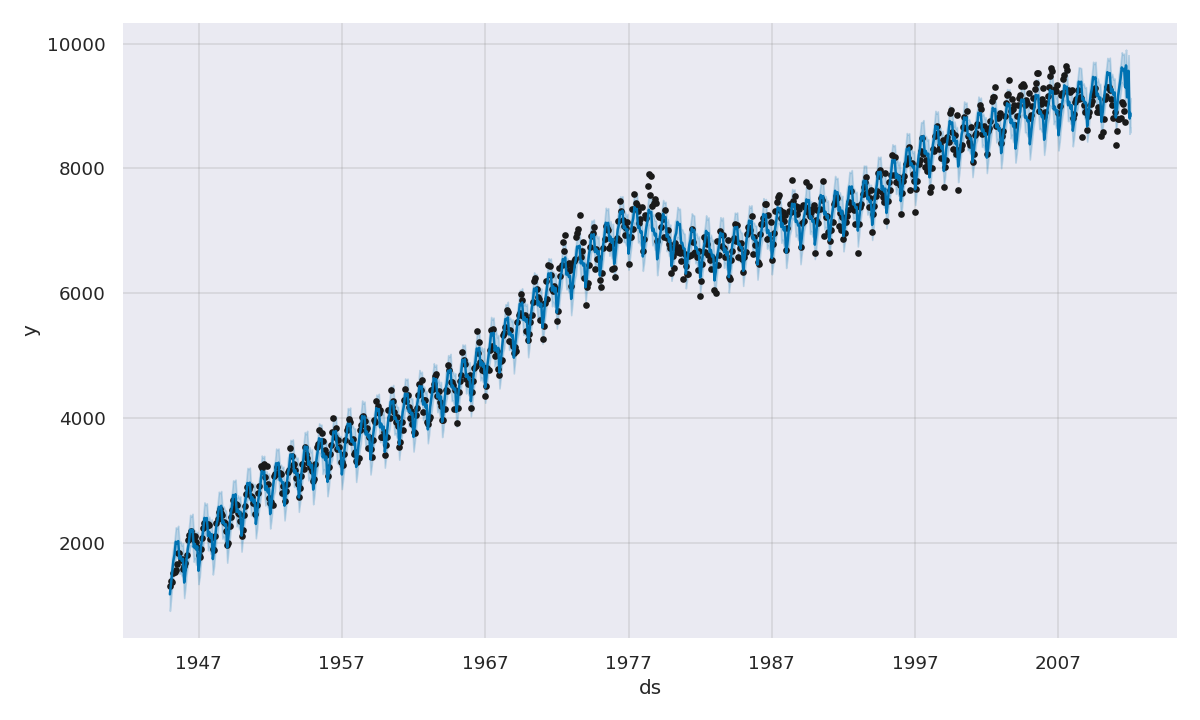
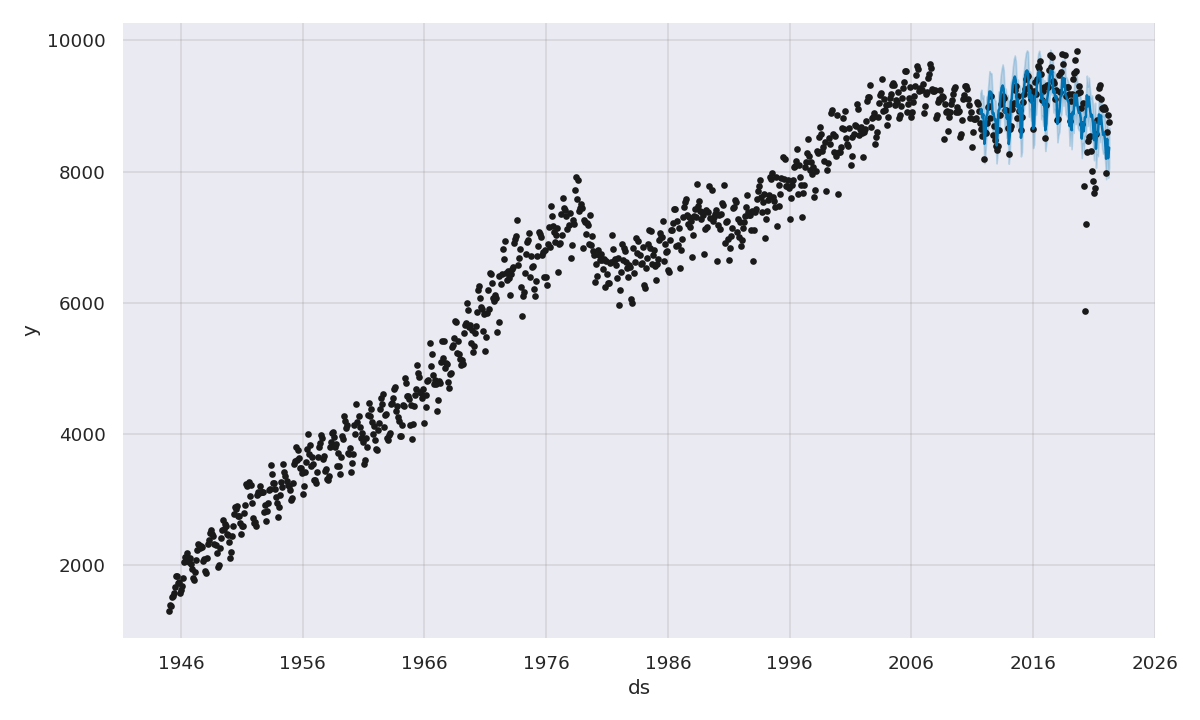
File changes

diff --git a/src/modules/funct_library.py b/src/modules/funct_library.py
@@ -80,105 +80,6 @@ def request_to_df(root_URL, url_series, df, name):
        
         
 
-def ADF_Stationarity_Test(timeseries, significance_level=0.05):
-    result = adfuller(timeseries)
-    print('ADF Statistic: %f' % result[0])
-    print('p-value: %f' % result[1])
-    print('Critical Values:')
-
-    for key, value in result[4].items():
-        print('\t%s: %.3f' % (key, value))
-        
-    if result[1] > significance_level:
-        result_str = 'NON-stationary timeseries'
-    else:
-        result_str = 'Stationary timeseries'
-        
-    return result_str
-
-
-def differencing(series):
-  """
-    Difference time series and view autocorrelation
-
-  """
-  # Original series
-  fig, axes = plt.subplots(3, 2, sharex=False)
-
-  axes[0, 0].plot(series); 
-  axes[0, 0].set_title('Original Series')
-  plot_acf(series, ax=axes[0, 1])
-
-  # 1st Differencing
-  axes[1, 0].plot(series.diff()); 
-  axes[1, 0].set_title('1st Order Differencing')
-  plot_acf(series.diff().dropna(), ax=axes[1, 1])
-
-  # 2nd Differencing
-  axes[2, 0].plot(series.diff().diff()); 
-  axes[2, 0].set_title('2nd Order Differencing')
-  plot_acf(series.diff().diff().dropna(), ax=axes[2, 1])
-
-  fig.tight_layout()
-
-  # fig.savefig('gas_differencing.png')
-
-  plt.show()
-
-
-def n_diffs(series):
-  """ 
-    Returns multiple estimates of differencing order
-  """
-  ## Adf Test
-  adf = ndiffs(series, test='adf')  
-
-  # KPSS test
-  kpss = ndiffs(series, test='kpss')  
-
-  # PP test:
-  pp = ndiffs(series, test='pp')  
-
-  print(f'ADF test: {adf}\n KPSS test: {kpss}\n PP test: {pp}')
-
-
-def graph_pacf(series):
-  """
-    Plot PACF of 1st differenced series
-  """
-  plt.rcParams.update({'figure.figsize':(9,3), 'figure.dpi':120})
-  fig, axes = plt.subplots(1, 2, sharex=False)
-
-  axes[0].plot(series.diff())
-  axes[0].set_title('1st Differencing')
-  axes[1].set(ylim=(0,5))
-
-  plot_pacf(series.diff().dropna(), ax=axes[1])
-
-#   fig.savefig('gas_pacf_p.png')
-
-  plt.show();
-
-
-  def graph_acf(series):
-    """
-    Plot ACF of 1st differenced series
-    """
-    plt.rcParams.update({'figure.figsize':(9,3), 'figure.dpi':120})
-    fig, axes = plt.subplots(1, 2, sharex=False)
-
-    axes[0].plot(series.diff())
-    axes[0].set_title('1st Differencing')
-    axes[1].set(ylim=(0,5))
-
-    plot_acf(series.diff().dropna(), ax=axes[1])
-
-    # fig.savefig('gas_acf_q.png')
-
-    plt.show();
-
-
-
 def resid_plot(model):
   """
     Plot residual errors
@@ -249,7 +150,8 @@ def update_db(curr, df):
 
     for i, row in df.iterrows():
         if check_if_row_exists():
-                update_row(curr, row['Date'], row['Volume_kbbld'])
+            pass
+            # update_row(curr, row['Date'], row['Volume_kbbld']) # include if overwriting row
         else:
                 temp_df = temp_df.append(row)
                 

diff --git a/src/Application/app.py b/src/Application/app.py
@@ -9,20 +9,20 @@ header = st.container()
 dataset = st.container()
 modelTrainer = st.container()
 
-@st.cache()
+@st.cache(allow_output_mutation=True)
 def make_forecast(series, df):
     """
         Makes forecast from series input
-        Input: selected from dropdown list (series)
+        Input: selected from dropdown list (series, df)
     """
     
-    prophet_df = (df.filter(items=['Month', series]).rename(columns={'Date': 'ds', series: 'y'}))
+    prophet_df = (df.filter(items=['Date', series]).rename(columns={'Date': 'ds', series: 'y'}))
 
     title = series + ' demand (thousand bbls_d)'
     
     model = Prophet()
     model.fit(prophet_df)
-    future = model.make_future_dataframe(periods=36)
+    future = model.make_future_dataframe(periods=60, include_history=True)
     forecast = model.predict(future)
 
     fig = plot_plotly(model, forecast)
@@ -31,28 +31,29 @@ def make_forecast(series, df):
     return fig
 
 with header:
-    st.title('LighhouseLabs Final Project:')
-    st.title('Time Series Analysis')
-    # st.text('This is my project on time series analysis')
+    st.title('Lighthouse Labs Final Project:')
+    st.title('Time Series Analysis and Forecasting')
+    
 
 
 with dataset:
-    st.header('EIA Energy Consumption')
+    st.header('Data set: EIA Energy Demand')
     df = pd.read_csv('EIA_volumes.csv', parse_dates=['Date'])
-    # st.write(df.head())
     
-    sel_series = st.selectbox('Choose a graph to plot:', options=['Ethane', 'Propane', 'Gasoline', 'Jet Fuel'])
+    
+    sel_series = st.selectbox('Choose a graph to plot:', options=['Ethane', 'Propane', 'Gasoline', 'Jet Fuel', 'Crude Oil'])
     
     fig_df = df.filter(items=['Date', sel_series])
     figp = px.line(fig_df, x='Date', y=sel_series, title=sel_series + ' demand')
     st.plotly_chart(figp, use_container_width=True)
 
 with modelTrainer:
-    st.header('Series forecasting (FBProphet)')
+    st.header('Five Year forecast (FBProphet):')
  
     if st.button('Start Forecast'):
-        st.write('Forecasting...')
-        make_forecast(sel_series, df)
         
+        plotly_fig = make_forecast(sel_series, df)
+        st.plotly_chart(plotly_fig)
+
     else:
         st.write('Click button to forecast')
